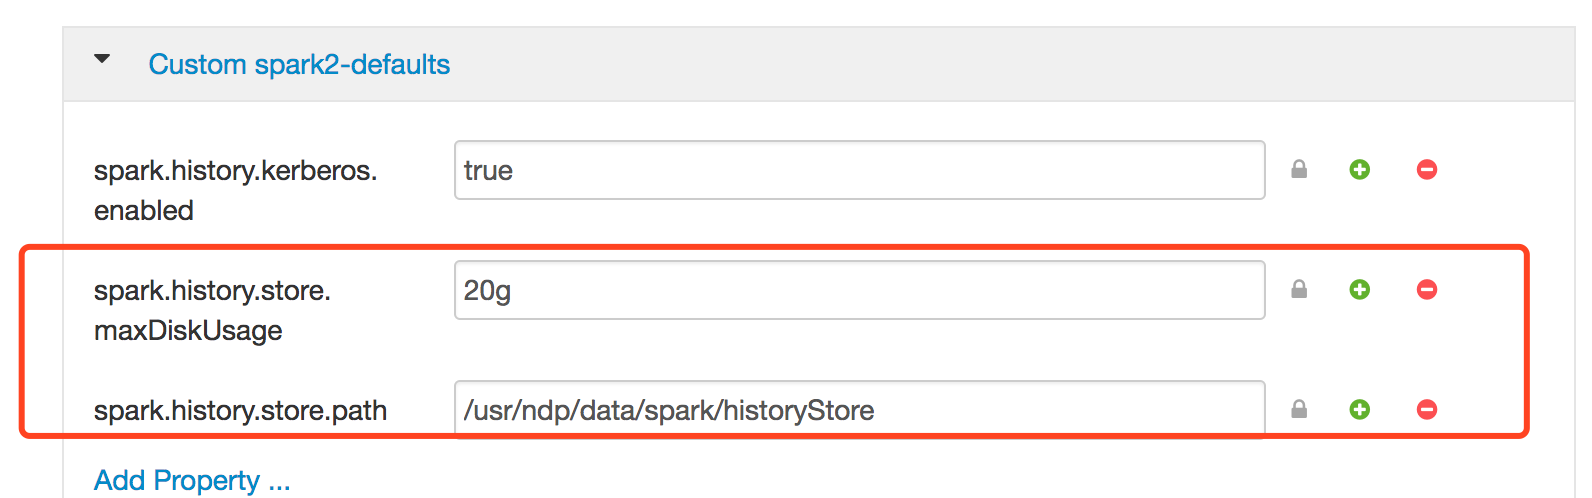
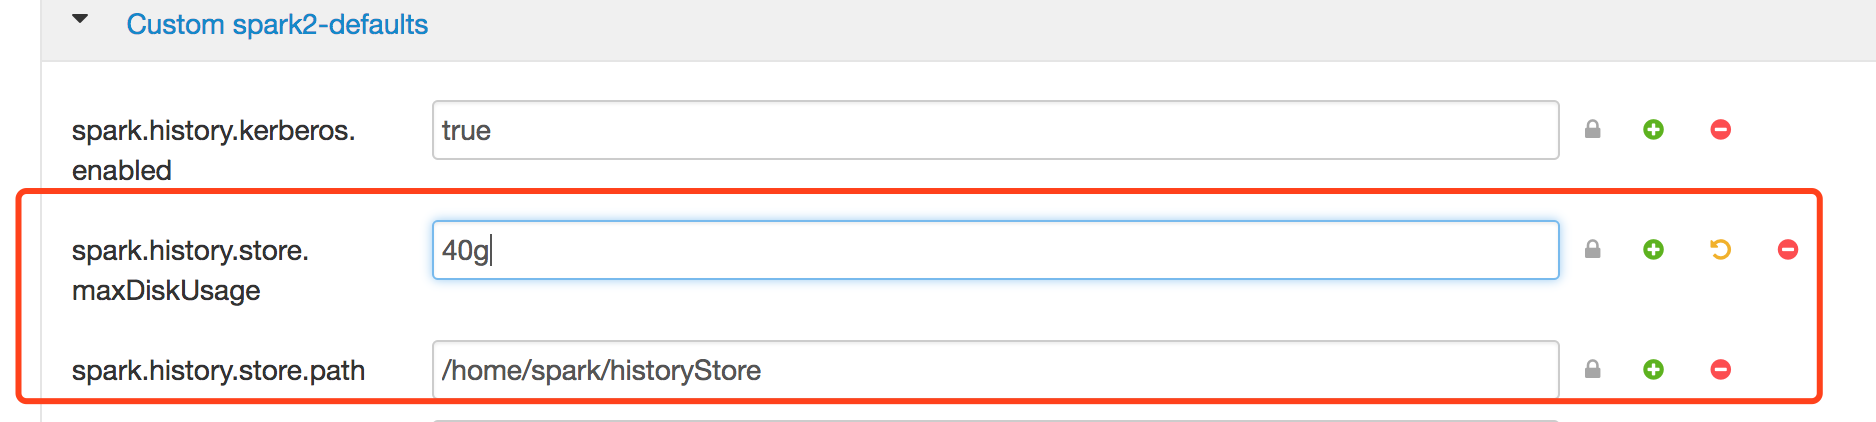
commit message:

diff --git a/Spark/spark-history-server部署文档.md b/Spark/spark-history-server部署文档.md
@@ -80,7 +80,7 @@ export LD_LIBRARY_PATH=/usr/ndp/current/mapreduce_client/lib/native:/usr/ndp/cur
 
 需要额外添加的配置项为`spark.history.store.path` `spark.history.store.maxDiskUsage`  ,spark.history.store.path 需要手动创建目录，spark.history.store.maxDiskUsage 设为20g。
 
-其他所有配置都可从老版本history server中拷贝，然后`spark.history.fs.cleaner.maxAge`调大至15d，`spark.history.ui.maxApplications`调大至50000(后续如果spark每天的应用数更多，可以调至100000),另外`spark.history.fs.numReplayThreads`设置为6(重要，因为将`spark.history.ui.maxApplications`调大之后，第一次启动时会拉取大量的数据，目前集群上设置的线程数是20，线程过多会造成网卡超载，目前线上机器核数为24，建议设置为核数的25%，即6)。
+其他所有配置都可从老版本history server中拷贝，然后`spark.history.fs.cleaner.maxAge`调大至15d，`spark.history.ui.maxApplications`调大至50000(后续如果spark每天的应用数更多，可以调至100000),另外在第一次加载数据时将`spark.history.fs.numReplayThreads`设置为6(重要，因为将`spark.history.ui.maxApplications`调大之后，第一次启动时会拉取大量的数据，目前集群上设置的线程数是20，线程过多会造成网卡超载，目前线上机器核数为24，建议设置为核数的25%，即6)。
 
 参考如下：
 
@@ -100,9 +100,9 @@ spark.history.fs.numReplayThreads 6
 spark.history.fs.update.interval 60s
 spark.history.kerberos.enabled true
 # 需更改
-spark.history.kerberos.principal                      hadoop/admin@HADOOP.HZ.NETEASE.COM
+spark.history.kerberos.principal                      spark-dev@HADOOP.HZ.NETEASE.COM
 # 需更改
-spark.history.kerberos.keytab                         /home/hadoop/yarn/conf/hadoop.keytab
+spark.history.kerberos.keytab                         /home/hadoop/yarn/conf/spark2.headless.keytab
 spark.history.provider org.apache.spark.deploy.history.FsHistoryProvider
 spark.history.retainedApplications 50
 spark.history.ui.maxApplications 50000
@@ -111,10 +111,16 @@ spark.yarn.historyServer.address spark1.lt.163.org:18080
 spark.yarn.queue default
 # 必须设置
 spark.history.store.path     /home/hadoop/spark-2.3.2-bin-his-0.1/historyStore
-spark.history.store.maxDiskUsage   20g
+spark.history.store.maxDiskUsage   40g
 ```
 
-然后关掉现有的spark history server，然后启动该新版history server。
+
+
+然后先不连接线上yarn端口，等日志加载完毕之后，关闭spark-history-server。
+
+然后将`spark.history.fs.numReplayThreads`设置为20，这是为了满足线上需求。
+
+
 
 ### Ambari 部署
 
@@ -130,23 +136,23 @@ spark.history.store.maxDiskUsage   20g
 
 
 
-![](/Users/bbw/todo/LearingAndThought/imgs/spark-his/image1.png)
+![](../imgs/spark-his/image1.png)
 
-![image-20181010162750358](/Users/bbw/todo/LearingAndThought/imgs/spark-his/package-path.png)
+![image-20181010162750358](../imgs/spark-his/package-path.png)
 
 ####  3、调整spark history server相关参数，如下：
 
 增大spark_daemon_memory至40g
 
-![image-20181010113823534](/Users/bbw/todo/LearingAndThought/imgs/spark-his/memory-tune.png)
+![image-20181010113823534](../imgs/spark-his/memory-tune.png)
 
 在 Spark2-thrift-sparkconf中修改（或者搜索这些配置项看在哪个模块中配置)
 
-![image-20181010114726561](/Users/bbw/todo/LearingAndThought/imgs/spark-his/his-cnf.png)
+![image-20181010114726561](../imgs/spark-his/his-cnf.png)
 
 然后在 Custom spark2-defaults中添加配置项，如下。
 
-![image-20181010163929862](/Users/bbw/todo/LearingAndThought/imgs/spark-his/other-cnf.png)
+![](../imgs/spark-his/other-cnf.png)
 
 这里的`spark.history.store.path`需要注意，**这是一个local目录，这个文件夹需要创建在spark-history-server所在节点**。因为此处spark.history.kerberos.keytab使用的是`/etc/security/keytabs/spark2.headless.keytab`。在认证之后,
 
@@ -168,9 +174,13 @@ spark.history.store.maxDiskUsage   20g
 /var/lib/ambari-server/resources/scripts/configs.py --user admin --password admin --action set --host hzadg-ambari-dev1.server.163.org --cluster dev --config-type cluster-env --key reinstall_component_package --value false
 ```
 
+#### 6、 在spark history server加载数据若干小时之后（此次升级定为2小时），关闭spark history server，将`spark.history.fs.numReplayThreads`重新设为20，为了满足线上需求。
+
+![](../imgs/spark-his/reset-threadnum.png)
 
 
 
+#### 7、重新启动spark history server
 
 ## 回滚方案
 
@@ -188,6 +198,6 @@ ambari部署，需要将配置的参数重置，然后重启。
 
 ## 对线上的主要影响及风险点
 
-在第一次启动时，需要拉取大量的event log，因此需要耗时一到两小时，期间不能查看spark history 日志。
+ambari方式安装，在第一次启动时，需要拉取大量的event log，因此需要耗时一到两小时，期间不能查看spark history 日志。
 
 风险点：首次启动时，如果说某些大作业eventLog较多，因为historyServer是单机运行，会造成大量网络传输，首次启动需要通过哨兵观察网络使用情况。

diff --git a/Spark/spark-dbexists.md b/Spark/spark-dbexists.md
@@ -127,3 +127,53 @@ db_name 是否是 一个格式类型，such as parquet
 }
 ```
 
+
+
+## isRunSQLOnFile
+
+首先，这里判断确定是runSqlOnFile之后，就交给resolveDataSource类来resolve这个unresolvedRelation。
+
+```scala
+class ResolveDataSource(sparkSession: SparkSession) extends Rule[LogicalPlan] {
+  def apply(plan: LogicalPlan): LogicalPlan = plan resolveOperators {
+    case u: UnresolvedRelation if u.tableIdentifier.database.isDefined =>
+      try {
+        val dataSource = DataSource(
+          sparkSession,
+          paths = u.tableIdentifier.table :: Nil,
+          className = u.tableIdentifier.database.get)
+
+        val notSupportDirectQuery = try {
+          !classOf[FileFormat].isAssignableFrom(dataSource.providingClass)
+        } catch {
+          case NonFatal(e) => false
+        }
+        if (notSupportDirectQuery) {
+          throw new AnalysisException("Unsupported data source type for direct query on files: " +
+            s"${u.tableIdentifier.database.get}")
+        }
+        val plan = LogicalRelation(dataSource.resolveRelation())
+        u.alias.map(a => SubqueryAlias(u.alias.get, plan, None)).getOrElse(plan)
+      } catch {
+        case e: ClassNotFoundException => u
+        case e: Exception =>
+          // the provider is valid, but failed to create a logical plan
+          u.failAnalysis(e.getMessage)
+      }
+  }
+}
+```
+
+这个类很简单，就是通过dbname作为DataSource的class，然后tableName::Nil作为paths，构建一个DataSource。
+
+通过观察DataSource 类。
+
+```
+* @param paths A list of file system paths that hold data.  These will be globbed before and
+*              qualified. This option only works when reading from a [[FileFormat]].
+```
+
+这里，paths这个参数只有当DataSource从FileFormat读取时，才会生效，因此runSqlOnFile这里不会从jdbc读取数据，这就不用判断jdbc格式下的tablename问题。
+
+而在fileFormat下，path必定是以"/"开头，然后对支持的className(dbname)进行判定，甚至不用判定className，就能把这块逻辑放到resolveDataSource那里继续处理。
+

diff --git a/Spark/spark-requireDBExists.md b/Spark/spark-requireDBExists.md
@@ -1,0 +1,51 @@
+## 有两个requireDBExists函数，有什么区别
+
+SessionCatalog和ExternalCatalog 里面各有一个requireDBExists函数，有什么区别？
+
+SessionCatalog在hive环境下中最终调用 HiveExternalCatalog下的 databaseExists函数。
+
+然后externalCatalog在hive环境下最终也是调用HiveExternalCatalog下的 databaseExists函数。
+
+所以两个在hive环境下最终调用是一样的。
+
+
+
+## requireDBExists
+
+alterDatabase
+
+createTable
+
+dropTable
+
+altertable
+
+loadTable
+
+listTables
+
+create functions
+
+function exists
+
+list functions 
+
+
+
+requireDBExists函数会需要用户对db所在的hdfs目录具有execute权限。但这不符合权限控制的要求。
+
+比如我具有这个表的写权限，但是不一定有execute权限。
+
+同样的表，hive可以查询，而spark不行，就是因为spark 多了requieDBExists。
+
+#  去掉会怎样
+
+如果不进行requireDBExists验证，
+
+在接下来进行tableExists或者requireTableExists时如果db不存在，会抛异常。
+
+getDatabase同样会需要对db所在hdfs目录的execute权限。
+
+
+
+也就是说除了alterDatabase依然会有权限影响。

diff --git a/Tools/kerbores.md b/Tools/kerbores.md
@@ -1,0 +1,48 @@
+# Kerberos快速生成Keytab
+
+1. 连接kdc
+```bash
+#在本机
+kadmin.local
+#不在本机 
+kadmin -p hadoop/admin
+hadoop #输入密码
+```
+2. 创建Principal
+```bash
+kadmin:  addprinc logstash
+123456
+123456 #输入任意密码
+```
+3. 生成keytab
+  前一个参数为生成的keytab文件名，后一个为上一步创建的principal
+```
+kadmin:  xst -k logstash.keytab logstash
+```
+4. 写用于kafka的jaas文件
+```
+KafkaClient {
+  com.sun.security.auth.module.Krb5LoginModule required
+  useKeyTab=true
+	# keytab路径
+  keyTab="/path/to/logstash.keytab"
+  storeKey=true
+  useTicketCache=false
+  serviceName="kafka"
+  # principal信息
+  principal="logstash@BDMS.163.COM";
+};
+```
+
+
+
+# Kerbores 重启
+
+systemctl status servicename
+
+
+
+systemctl restart krb5kdc
+
+systemctl restart kadmin
+
